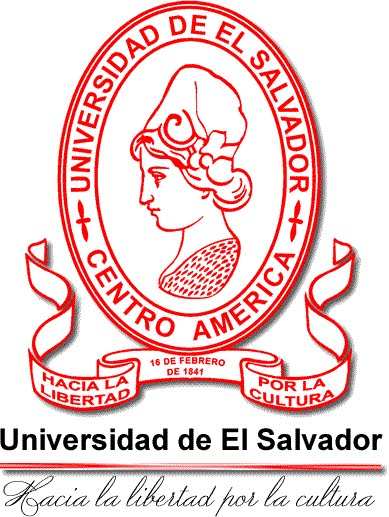
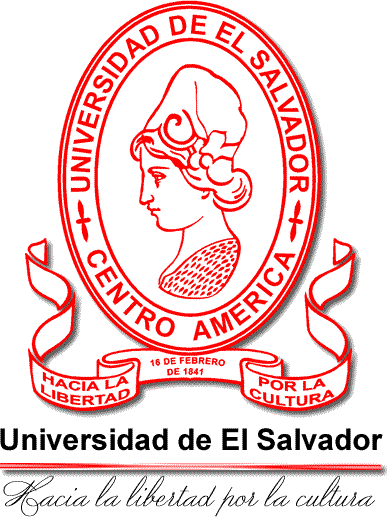
Modificación de login

diff --git a/css/login.css b/css/login.css
@@ -6,7 +6,9 @@ body
 
 #mensaje
 {
-	margin-left: 20%;
+
+	float: left;
+	margin-left: 18%;
 	color: red;
 	font-size: 120%;
 }
@@ -33,7 +35,8 @@ body
 {
 	float: left;
 	width: 10%;
-	height: auto;
+	margin-left: 0%;
+	height: 135px;
 
 }
 
@@ -44,6 +47,7 @@ body
 	text-align: center;
 	text-decoration: underline;
 	font-family: serif;
+	margin-right: 8%;
 
 }
 #titulo h2
@@ -53,24 +57,9 @@ body
 	margin-top: -1%;
 	padding: 0px 0;
 	font-family: serif;
-}
-#tema
-{
-	top:20%;
-	left:0%;
-	width:100%;
-	height:5%;
-	color: white;
+	margin-right: 8%;
 }
 
-#tema h2
-{
-	font-size:160%; 
-	font-family: tahoma; 
-	text-align:center;
-	margin-top: 3%;
-
-}
 
 #datos
 {
@@ -79,13 +68,21 @@ body
 	padding: 20px;
 	float: left;
 	box-sizing: border-box;
-	margin-left:20%;
-	margin-top: 3%;
+	margin-left:26%;
+	margin-top: 0%;
 	margin:5 auto;
 	border:15px solid #808080;
 	border-radius: 15%;
 	border-color: #B40404;
 	font-family: tahoma;
+}
+
+#datos img
+{
+	float: left;
+	width: 50%;
+	margin-left: 25%;
+	height: 200px;
 }
 
 #datos h3
@@ -161,10 +158,6 @@ body
 	margin-top: 1%;
 }
 
-#imagenes img{
-	width: 100%;
-	height: auto;
-}
 
 @media screen and (max-width: 700px)
 {

diff --git a/local/resources/views/login.blade.php b/local/resources/views/login.blade.php
@@ -9,18 +9,17 @@
 	<meta name="viewport" content="width=device-width, user-scalable=no, initial-scale=1, maximum-scale=1, minimun-scale=1" />		
 	<title>GESTIÓN DE ACTIVO FIJO E INVENTARIO</title>
 </head>
-<body onload="javaSlideShow()">
+<body>
 <div id="contenedor">
 		<header id="titulo">
 			<img src="<?php echo URL::asset('img/Odontologia.png') ?>">
 			<h1>FACULTAD DE ODONTOLOGIA</h1>
 			<h2>UNIVERSIDAD DE EL SALVADOR</h2>
-		</header>
-		<div id="tema">
 			<h2>GESTIÓN DE ACTIVO FIJO E INVENTARIO</h2>
-		</div>
+		</header>
+
 		<section id="datos">
-			<h3>INICIAR SESIÓN</h3>
+			<img src="<?php echo URL::asset('img/UES.png') ?>">
 	        {{-- Preguntamos si hay algún mensaje de error y si hay lo mostramos  --}}
 	        @if(Session::has('mensaje'))
 	            <p id="mensaje">{{ Session::get('mensaje') }}</p>
@@ -34,9 +33,6 @@
             <p class="recordar">{!! Form::label('Recordar', 'Recordar contraseña') !!} {!! Form::checkbox('remember', true)!!}</p>
 			{!! Form::submit('Ingresar', ['class' => 'btnIngresar']) !!}
 			{!! Form::close() !!}
-		</section>
-		<section id="imagenes">
-			<img src="<?php echo URL::asset('img/UES.png')?>" name='SlideShow'>
 		</section>
 	</div>
 
